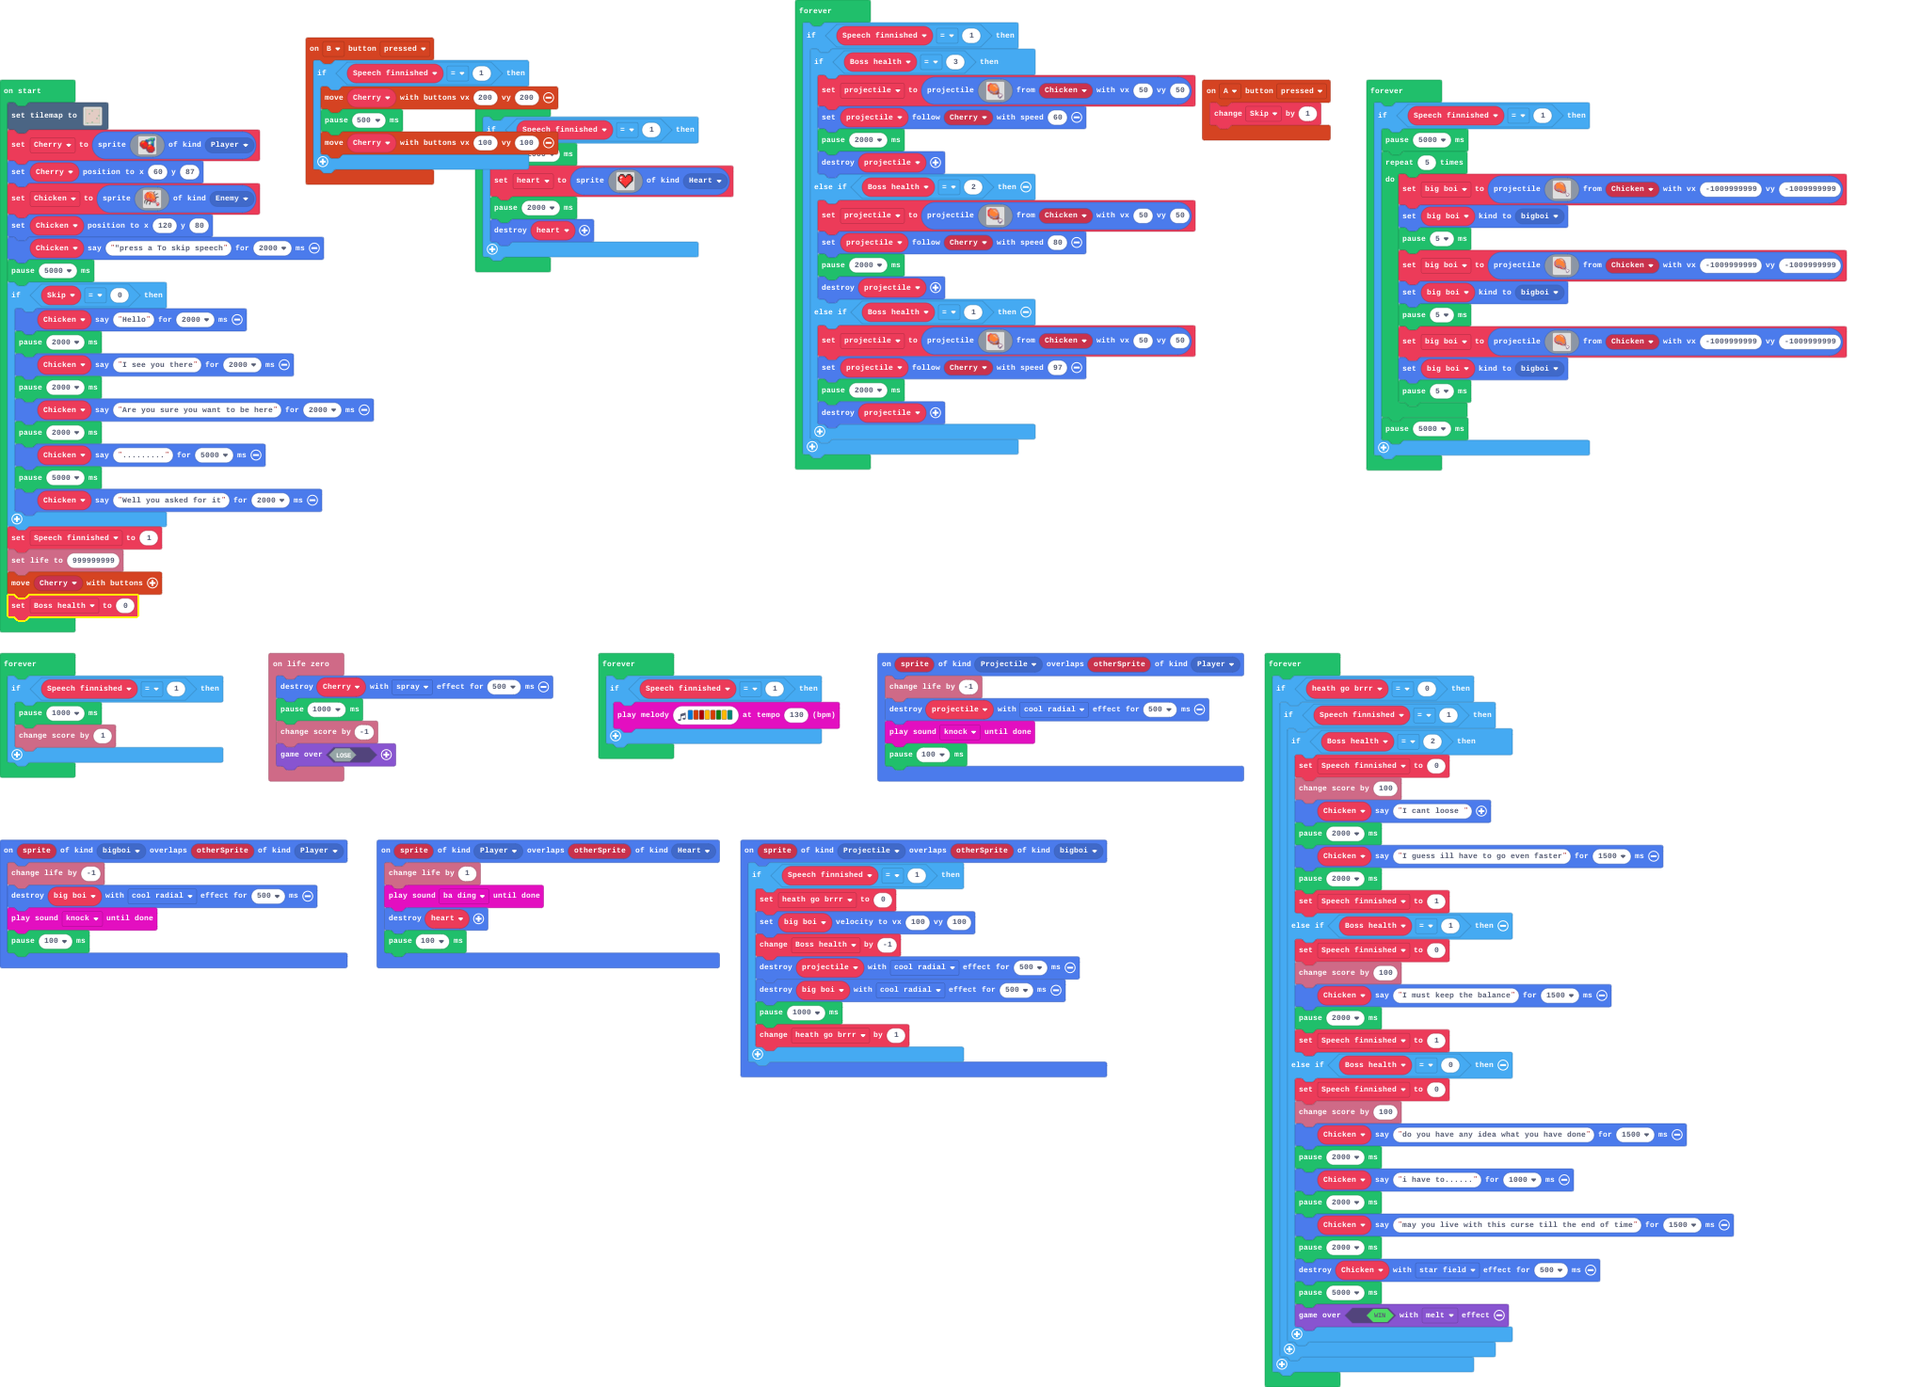
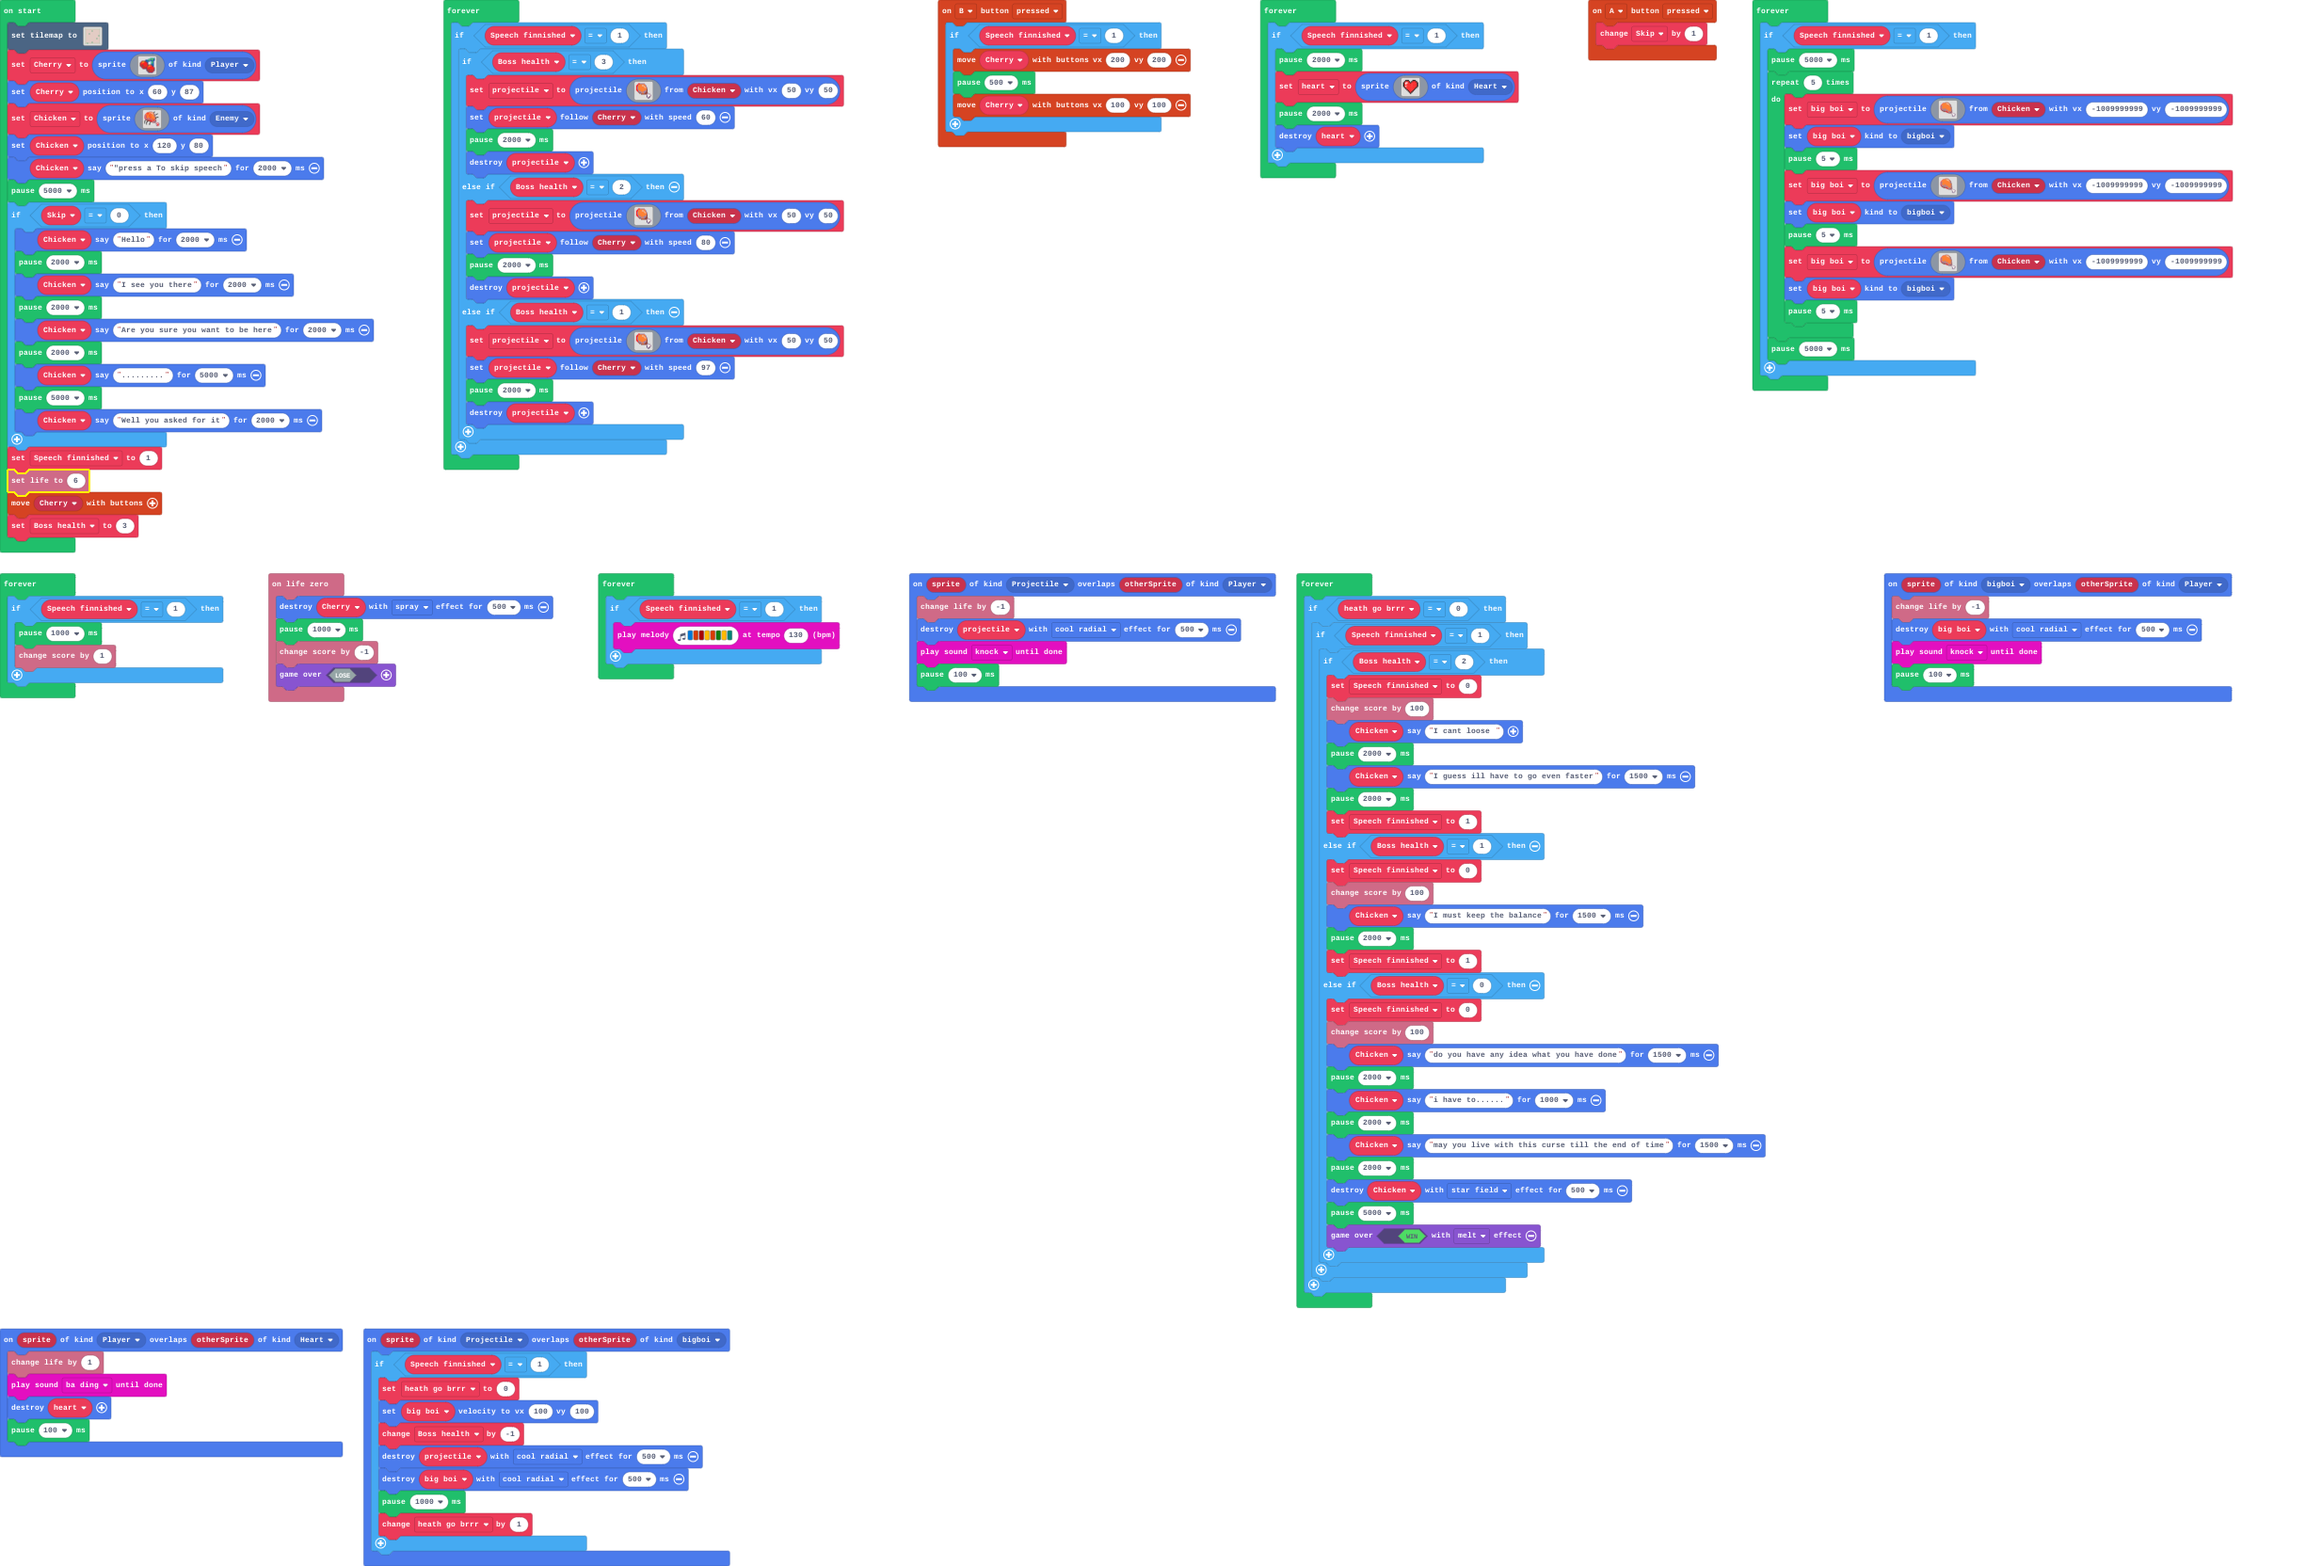
I made a secret end

diff --git a/main.ts b/main.ts
@@ -123,9 +123,9 @@ if (Skip == 0) {
     Chicken.say("Well you asked for it", 2000)
 }
 Speech_finnished = 1
-info.setLife(999999999)
+info.setLife(6)
 controller.moveSprite(Cherry)
-let Boss_health = 0
+let Boss_health = 3
 forever(function () {
     if (Speech_finnished == 1) {
         if (Boss_health == 3) {
